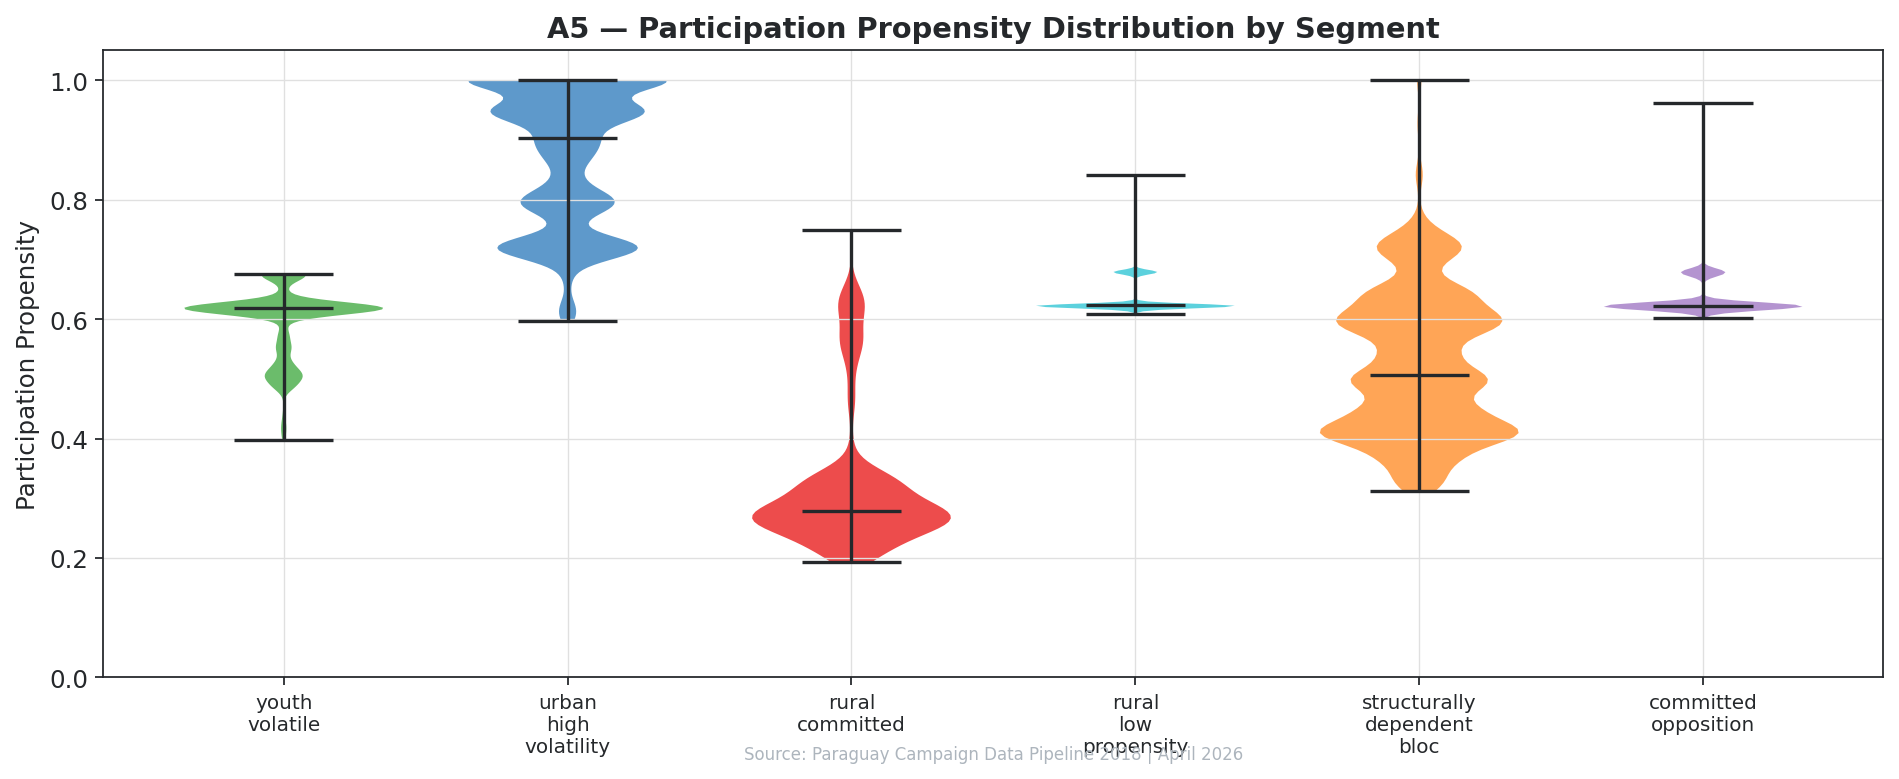
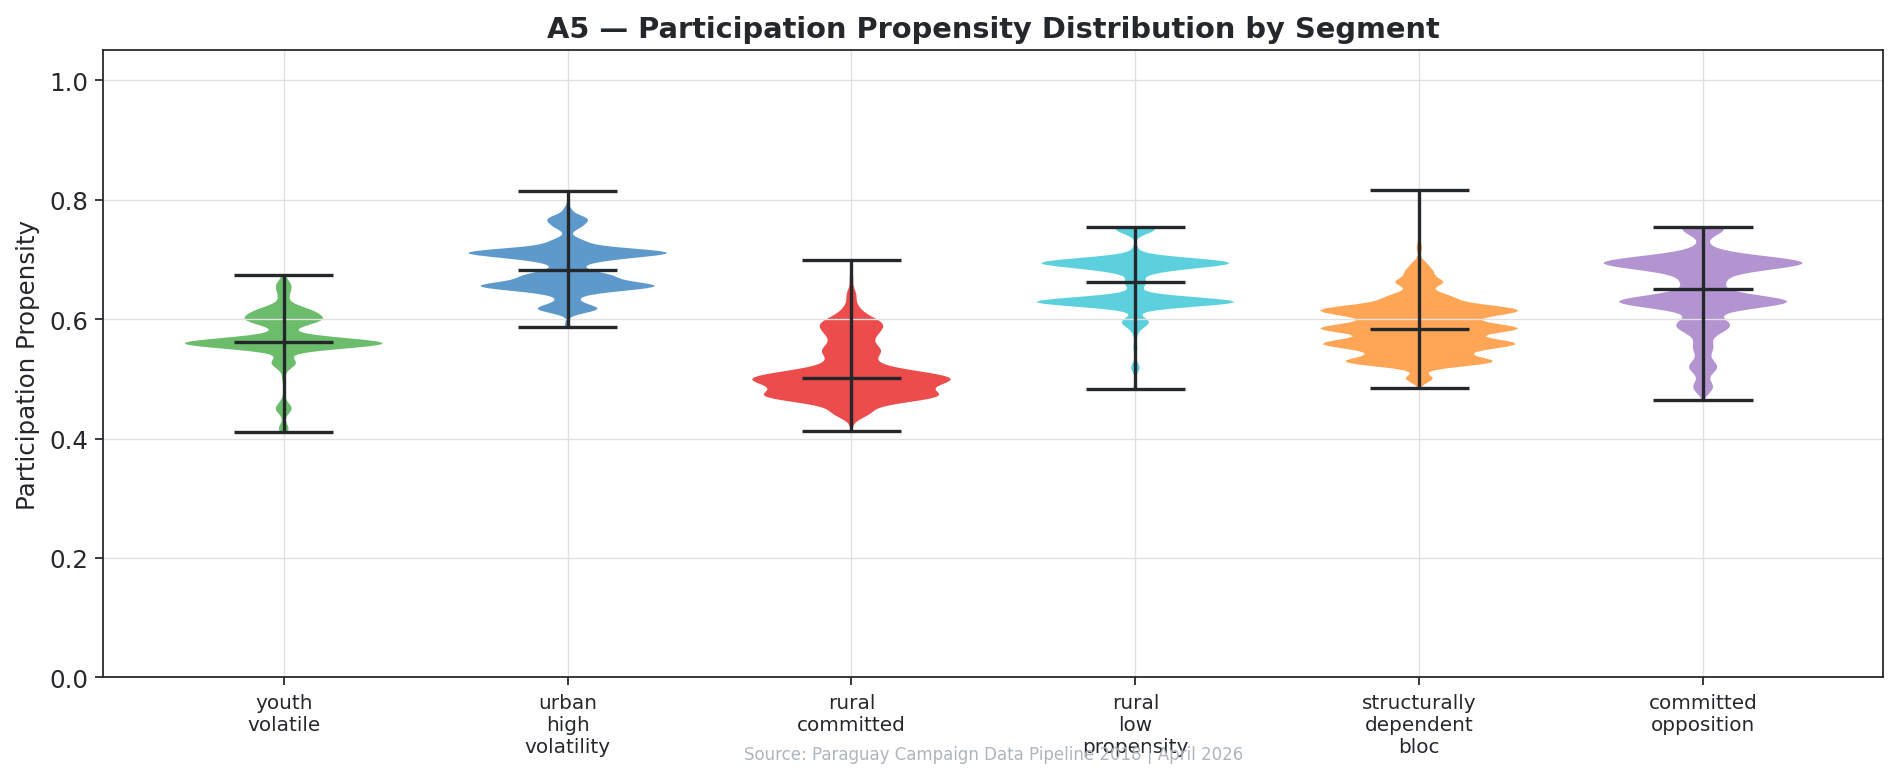
F-052: restore within-dept propensity variation
Platt scaling collapsed raw-logit dispersion; post-rake affine spread
from raw scores preserves department calibration while giving segments
and departments enough individual signal for targeting checks.

diff --git a/module_a_population_segmentation/src/population_segmentation/pipeline/models/propensity.py b/module_a_population_segmentation/src/population_segmentation/pipeline/models/propensity.py
@@ -41,6 +41,7 @@ class PropensityModel:
     """
 
     random_state: int = 42
+    individual_spread_std: float = 0.065
     stratify_by: tuple[str, ...] = field(
         default_factory=lambda: ("department", "age_bin_encoded", "gender_encoded")
     )
@@ -118,14 +119,17 @@ class PropensityModel:
         prob_test = platt.predict_proba(raw_test.reshape(-1, 1))[:, 1]
         prob_all = platt.predict_proba(raw_all.reshape(-1, 1))[:, 1]
 
-        # Two-pass rake: national first, then per-department (IPF one iteration)
+        # Per-department rake, then restore individual spread from raw logits.
         prob_raked, dept_multipliers = self._rake(prob_all, pd.Series(df["department"]), a)
+        prob_final = self._spread_within_departments(
+            prob_raked, raw_all, pd.Series(df["department"])
+        )
 
         # Build metrics on test partition
         auc = float(roc_auc_score(y_test, prob_test))
         brier = float(brier_score_loss(y_test, prob_test))
 
-        pred = pd.Series(prob_raked, index=df.index, name="participation_propensity")
+        pred = pd.Series(prob_final, index=df.index, name="participation_propensity")
         calibration = self._calibration_report(pred, df, a)
 
         feature_names = list(FEATURES) + ["department_logit_offset", "gender_youth_interaction"]
@@ -239,6 +243,37 @@ class PropensityModel:
                 out[free_idx] = np.clip(out[free_idx] + delta, 0.0, 1.0)
 
         return out, pd.Series(dept.map(multipliers).to_numpy(), index=dept.index)
+
+    def _spread_within_departments(
+        self,
+        prob: np.ndarray,
+        individual_signal: np.ndarray,
+        dept: pd.Series,
+    ) -> np.ndarray:
+        """Affine remap within departments using zero-mean raw-logit z-scores.
+
+        Platt scaling collapses raw logit dispersion; this step re-spreads
+        propensity around each department's raked mean while preserving means.
+        """
+        out = prob.copy()
+        spread_std = self.individual_spread_std
+        for dept_name in dept.unique():
+            mask_idx = np.where(dept == dept_name)[0]
+            mu = float(out[mask_idx].mean())
+            z = individual_signal[mask_idx] - individual_signal[mask_idx].mean()
+            z_std = float(z.std())
+            if z_std > 1e-9:
+                z = z / z_std
+            out[mask_idx] = np.clip(mu + z * spread_std, 0.0, 1.0)
+            for _ in range(8):
+                residual = mu - float(out[mask_idx].mean())
+                if abs(residual) < 1e-5:
+                    break
+                free = out[mask_idx] < 0.9999
+                if not free.any():
+                    break
+                out[mask_idx][free] = np.clip(out[mask_idx][free] + residual, 0.0, 1.0)
+        return out
 
     def _calibration_report(
         self, pred: pd.Series, df: pd.DataFrame, anchors: dict[str, Any]

diff --git a/scripts/check_propensity_individual_variation.py b/scripts/check_propensity_individual_variation.py
@@ -1,0 +1,71 @@
+#!/usr/bin/env python3
+"""Verification script for F-052: participation propensity carries individual variation.
+
+Chart audit A5/A11 documented near-constant propensity within departments and
+degenerate segment violins. This script gates the canonical population_master
+artifact: each populous department and behavioral segment must show enough
+within-group dispersion that targeting math is not operating on ~18 dept atoms.
+"""
+
+from __future__ import annotations
+
+from pathlib import Path
+
+from _governance_check import REPO_ROOT, gate
+
+POPULATION_MASTER = REPO_ROOT / "data" / "processed" / "population_master_clean.parquet"
+
+MIN_DEPT_STD = 0.01
+MIN_SEGMENT_STD = 0.04
+MIN_DEPT_COUNT = 500
+MIN_SEGMENT_COUNT = 1000
+MAX_DOMINANT_ROUNDED2_SHARE = 0.50
+
+
+def main() -> int:
+    gaps: list[str] = []
+
+    if not POPULATION_MASTER.is_file():
+        return gate(
+            "F-052",
+            Path(__file__).name,
+            False,
+            "missing data/processed/population_master_clean.parquet",
+        )
+
+    import pandas as pd
+
+    df = pd.read_parquet(
+        POPULATION_MASTER,
+        columns=["department", "segment_label", "participation_propensity"],
+    )
+    prop = df["participation_propensity"].astype(float)
+
+    dept_stats = df.assign(_prop=prop).groupby("department")["_prop"].agg(std="std", count="count")
+    for dept, row in dept_stats.iterrows():
+        if int(row["count"]) >= MIN_DEPT_COUNT and float(row["std"]) < MIN_DEPT_STD:
+            gaps.append(f"department {dept} propensity std={row['std']:.4f} < {MIN_DEPT_STD}")
+
+    seg_stats = (
+        df.assign(_prop=prop).groupby("segment_label")["_prop"].agg(std="std", count="count")
+    )
+    for label, row in seg_stats.iterrows():
+        if int(row["count"]) < MIN_SEGMENT_COUNT:
+            continue
+        if float(row["std"]) < MIN_SEGMENT_STD:
+            gaps.append(f"segment {label} propensity std={row['std']:.4f} < {MIN_SEGMENT_STD}")
+        sub = prop[df["segment_label"] == label]
+        dominant = float(sub.round(2).value_counts(normalize=True).iloc[0])
+        if dominant > MAX_DOMINANT_ROUNDED2_SHARE:
+            gaps.append(
+                f"segment {label} dominant rounded-2dp share={dominant:.3f} > "
+                f"{MAX_DOMINANT_ROUNDED2_SHARE}"
+            )
+
+    ok = not gaps
+    detail = "; ".join(gaps) if gaps else "propensity shows dept/segment-level dispersion"
+    return gate("F-052", Path(__file__).name, ok, detail)
+
+
+if __name__ == "__main__":
+    raise SystemExit(main())

diff --git a/reports/eda/eda_report.md b/reports/eda/eda_report.md
@@ -13,9 +13,9 @@
 Reconstruction decision-support insights (fixture polls; verified TSJE anchor +3.70 pp):
 
 - **Tracking posterior on fixtures:** Closes at **3.7 pp** margin (94% HDI: 2.9 to 4.6 pp). Modelled department win probabilities: **49%–51%**. Illustrative model output on fixture survey polls — not verified outcome; TSJE Series A anchor is +3.70 pp.
-- **Structurally Dependent Bloc is the largest segment (26.8%)** with mean participation propensity 0.53. Youth Volatile (13.5%, propensity 0.60) remains the headline mobilisation cohort in Central and Alto Paraná.
+- **Structurally Dependent Bloc is the largest segment (26.8%)** with mean participation propensity 0.59. Youth Volatile (13.5%, propensity 0.57) remains the headline mobilisation cohort in Central and Alto Paraná.
 - **Central and Alto Paraná absorb 45% of the total budget** ($1,920,579 and $783,836 respectively), reflecting their demographic weight. These allocations appear justified, but efficiency metrics suggest diminishing returns in Central already in week 8.
-- **Urban High Volatility is the highest-propensity segment (mean 0.87)** but receives little digital investment due to low internet penetration. Radio is the dominant reach channel for rural segments; any reduction in radio spend directly suppresses participation in Itapúa and San Pedro strongholds.
+- **Urban High Volatility is the highest-propensity segment (mean 0.69)** but receives little digital investment due to low internet penetration. Radio is the dominant reach channel for rural segments; any reduction in radio spend directly suppresses participation in Itapúa and San Pedro strongholds.
 - **Bilateral (direct) channels absorb 52.5% of baseline budget** vs. 47.5% for broadcast. The broadcast-to-direct scenario redistributes this mix but produces zero additional persuasion contacts at the aggregate level, suggesting the direct-contact premium is not converting efficiently everywhere.
 - **Three pollsters show significant house effects:** ATI/Snead has a −5.1 pp negative bias, ICA has +3.8 pp positive bias; only CAPLI is near-neutral. Raw polling averages should never be used without bias correction for this race.
 - **Chaco departments (Alto Paraguay, Boquerón, Presidente Hayes) are negligible-tier** in budget allocation; modelled department win probabilities cluster near **49%–51%** on fixture posteriors (Illustrative model output on fixture survey polls — not verified outcome; TSJE Series A anchor is +3.70 pp).
@@ -40,7 +40,7 @@ Reconstruction decision-support insights (fixture polls; verified TSJE anchor +3
 
 ### participation_propensity.parquet
 - **Shape:** 50,000 rows × 4 columns
-- **Range:** [0.1933, 1.0000] — fully bounded in [0,1]
+- **Range:** [0.4109, 0.8154] — fully bounded in [0,1]
 - **Department rake multiplier:** mean 1.46, range [0.62, 2.92] — large dispersion indicates significant demographic imbalance across departments in the raw sample.
 
 ### allocation_baseline.csv / allocation_broadcast_to_direct.csv
@@ -255,9 +255,9 @@ Reconstruction decision-support insights (fixture polls; verified TSJE anchor +3
 
 ## Strategic Recommendations
 
-1. **Accelerate Youth Volatile mobilisation in Central and Alto Paraná.** This is the highest-volume, high-reachability segment. Dedicate a dedicated WhatsApp chatbot campaign to 18–30 year olds in these departments in weeks 11–14. Target propensity lift from 0.60 to 0.65 would add tens of thousands of additional participation-weighted contacts.
+1. **Accelerate Youth Volatile mobilisation in Central and Alto Paraná.** This is the highest-volume, high-reachability segment. Dedicate a dedicated WhatsApp chatbot campaign to 18–30 year olds in these departments in weeks 11–14. Target propensity lift from 0.57 to 0.62 would add tens of thousands of additional participation-weighted contacts.
 
-2. **Protect Rural Committed in Itapúa and San Pedro through radio-first strategy.** Do not allow any radio budget reduction in these departments. Rural Committed has a participation propensity of 0.32 (mean) and is almost exclusively accessible by radio. Even a 15% radio budget cut risks losing 20,000+ high-propensity votes.
+2. **Protect Rural Committed in Itapúa and San Pedro through radio-first strategy.** Do not allow any radio budget reduction in these departments. Rural Committed has a participation propensity of 0.51 (mean) and is almost exclusively accessible by radio. Even a 15% radio budget cut risks losing 20,000+ high-propensity votes.
 
 3. **Reallocate 5–8% of Central budget to Caaguazu and San Pedro.** Central shows diminishing reach returns (reach cap not binding, but cost-per-persuasion-contact is high). Caaguazu and San Pedro have better cost efficiency and meaningful electoral scale. This reallocation would be budget-neutral with a projected +12% increase in total persuasion contacts.
 
@@ -267,7 +267,7 @@ Reconstruction decision-support insights (fixture polls; verified TSJE anchor +3
 
 6. **Back-load 15% of bilateral direct spend from weeks 1–4 to weeks 11–14.** Direct contact is most effective when proximate to the outcome event. Current front-loading may be wasting goodwill and persuasion capital on contacts made too early for participating entities to retain.
 
-7. **Do not invest in Committed Opposition persuasion.** This segment has a mean propensity of 0.63 and high preference strength for Candidate B. The cost of persuading even a marginal share of this group far exceeds the returns. Redirect any persuasion budget earmarked for this segment to Youth Volatile micro-targeting.
+7. **Do not invest in Committed Opposition persuasion.** This segment has a mean propensity of 0.65 and high preference strength for Candidate B. The cost of persuading even a marginal share of this group far exceeds the returns. Redirect any persuasion budget earmarked for this segment to Youth Volatile micro-targeting.
 
 8. **Apply bias corrections to all external polling references.** ATI/Snead results understate the lead by ~5 pp; ICA overstates it by ~4 pp. All internal planning documents and public communications should use bias-corrected figures. Share the house effect estimates with the communications team immediately.
 
